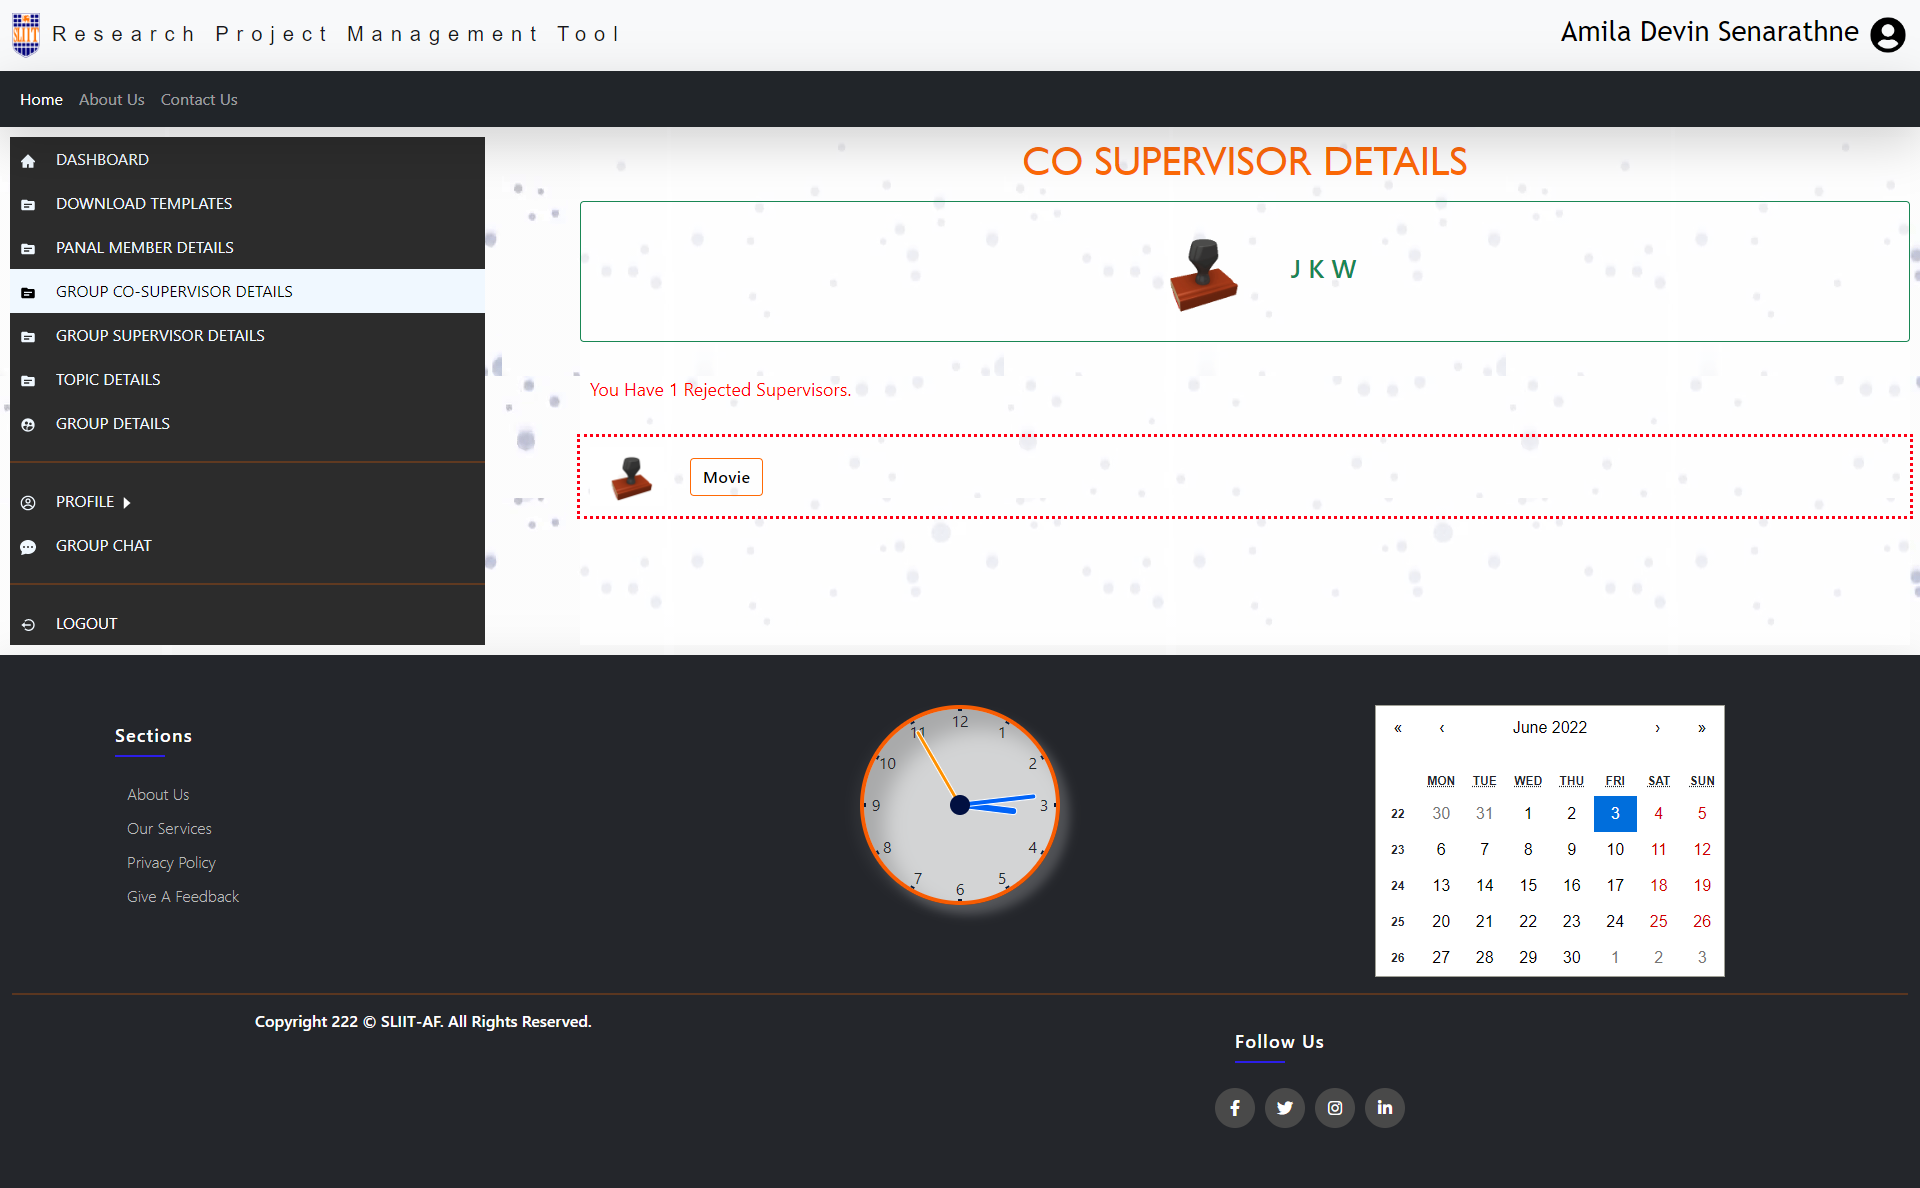
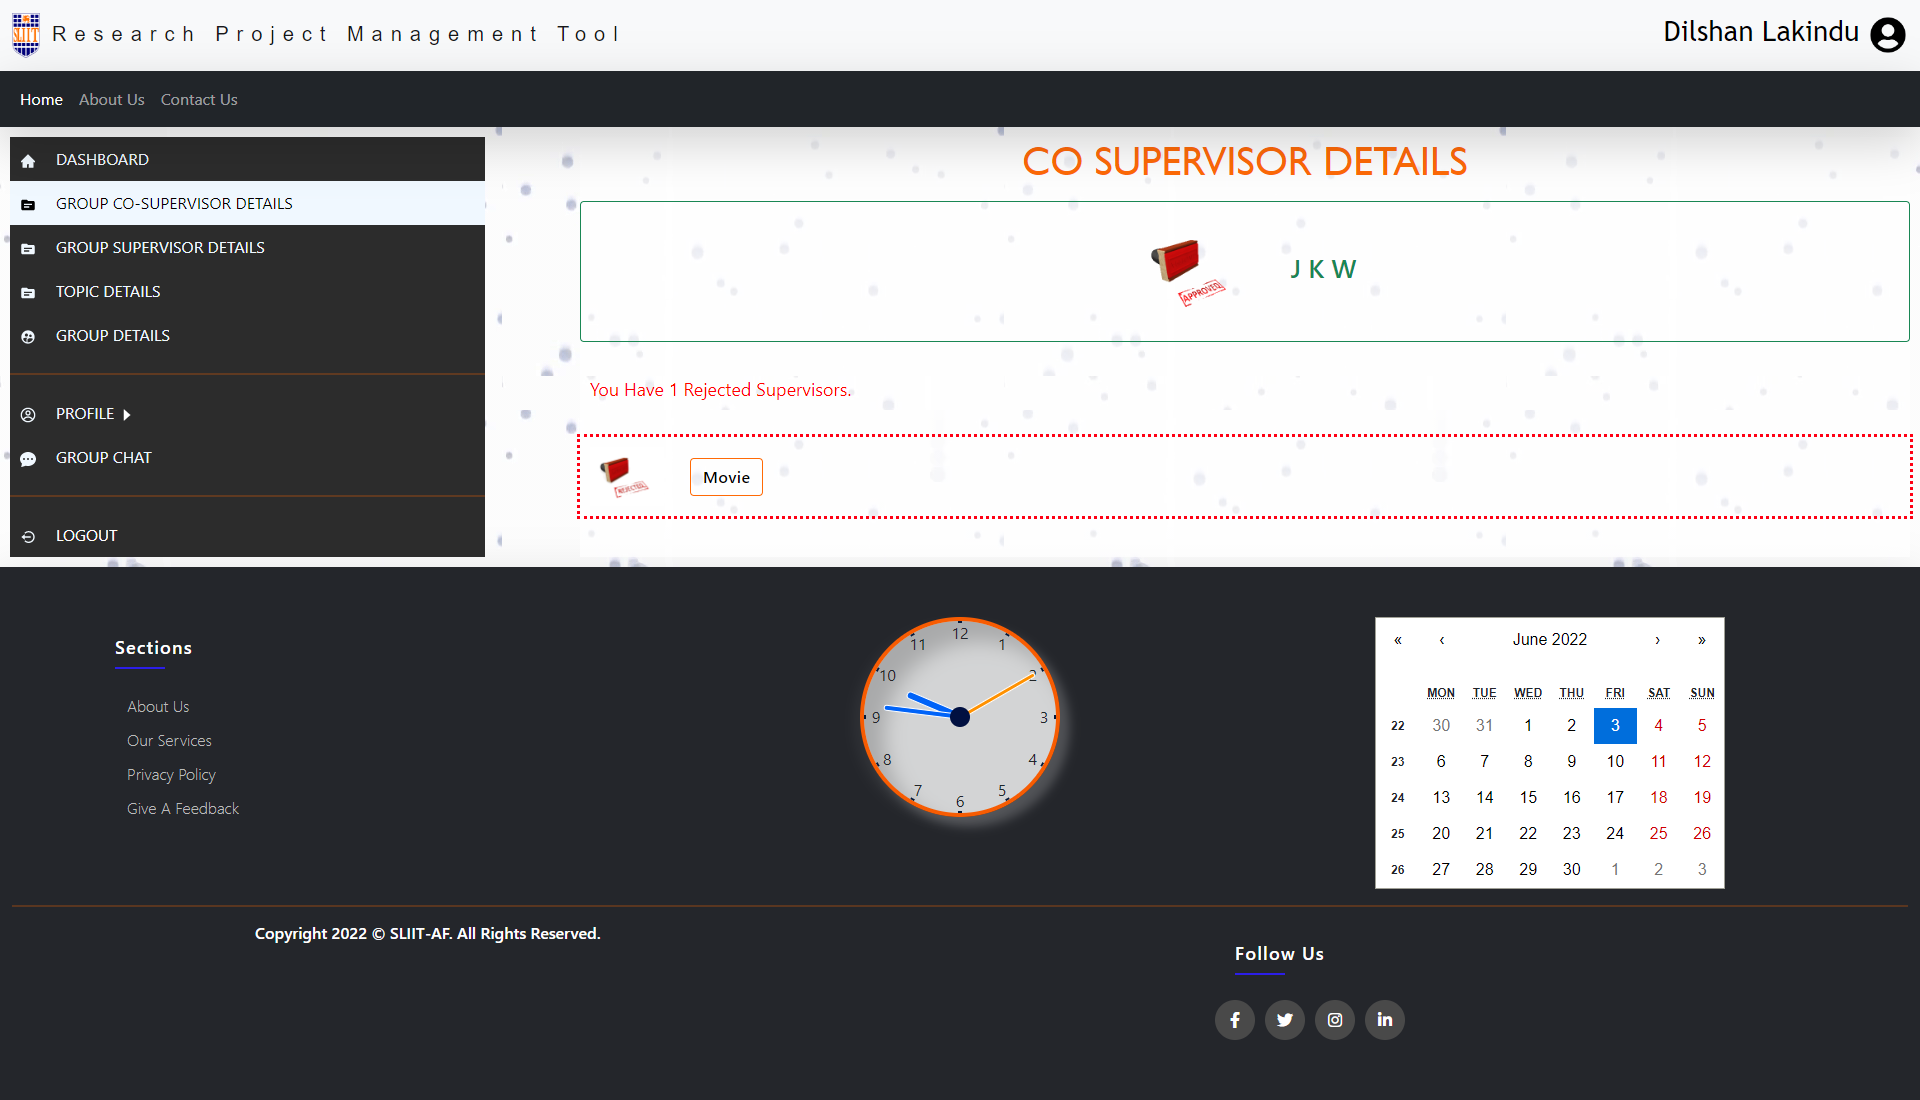
ss and fix some bugs

diff --git a/server/controllers/requestSupervisor.js b/server/controllers/requestSupervisor.js
@@ -91,7 +91,8 @@ const requestSupervisorController={
                                             if (oss.user_id === s._id) {
                                                 back = true;
                                                 break;
-                                            } else {
+                                            }
+                                            if (oss.user_id != s._id) {
                                                 relatedSupervisors.push(s);
                                                 back = true;
                                                 break;
@@ -123,7 +124,8 @@ const requestSupervisorController={
                                                         //console.log('hiiiiiiiii');
                                                         back = true;
                                                         break;
-                                                    } else {
+                                                    } 
+                                                    if (oss.user_id != s._id){
                                                         relatedSupervisors.push(s);
                                                         back = true;
                                                         break;

diff --git a/client/src/Layouts/StudentDashBoard/StudentDashboard.js b/client/src/Layouts/StudentDashBoard/StudentDashboard.js
@@ -251,12 +251,12 @@ const StudentDashboard = () => {
                         <div className={requestCoSupervisor ? 'navTextSelect' : 'navText'}>{myGroup?.level===4?"REQUEST CO-SUPERVISOR":"GROUP CO-SUPERVISOR DETAILS"}</div>
                     </div>:<></>
                      }
-                    {user.student?.haveAGroup&&
+                    {user.student?.haveAGroup&&myGroup?.level>=1||myGroup?.level===-1?
                     <div onClick={handleRequestSupervisor} className={requestSupervisor ? 'nav1Select' : 'nav1'}>
                         <div className={requestSupervisor ? "navIconSelect" : "navIcon"}><MdTopic /></div>
                         <div className={requestSupervisor ? 'navTextSelect' : 'navText'}>{myGroup?.level===1?"REQUEST SUPERVISOR":"GROUP SUPERVISOR DETAILS"}</div>
                     </div>
-                     }
+                     :<></>}
                     {user.student?.haveAGroup&&
                     <div onClick={handleTopicRegistration} className={topicRegistration ? 'nav1Select' : 'nav1'}>
                         <div className={topicRegistration ? "navIconSelect" : "navIcon"}><MdTopic /></div>

diff --git a/client/src/components/Student/DashBoard/DashBoard.jsx b/client/src/components/Student/DashBoard/DashBoard.jsx
@@ -9,6 +9,7 @@ const DashBoard = ({group}) => {
   
   return (
     <div><div className="Dash">Welcome To Student DashBoard</div>
+            {!group&&<><div  className='nextStep'>Next Step:  Make a group</div></>}
             {group?.level===0&&<><div  className='nextStep'>Next Step:  Register Your Topic under the Topic Registraion</div></>}
             {group?.level===1&&<><div className='nextStep'>Next Step: Request a Supervisor</div></>}
             {group?.level===2&&<><div className='warnStep'>Wait for the Supervisor Response.</div></>}

diff --git a/client/src/components/Student/RequestCoSupervisor/RequestCoSupervisor.jsx b/client/src/components/Student/RequestCoSupervisor/RequestCoSupervisor.jsx
@@ -94,8 +94,9 @@ const RequestCoSupervisor = ({topic,group}) => {
           <p className="card-text">{item.staff?.description}</p>
           <div className='row'>
           <div className='col'>
-            <button className='btn btn-outline-warning' onClick={handleOpen}>VIEW</button>
+            <button key={item._id} className='btn btn-outline-warning' onClick={handleOpen}>VIEW</button>
             <Modal
+            
               open={open}
               onClose={handleClose}
               aria-labelledby="modal-modal-title"

diff --git a/client/src/components/Footers/Footer.js b/client/src/components/Footers/Footer.js
@@ -36,7 +36,7 @@ export default function Footer() {
 					<hr />
 					<div className="row justify-content-around">
 						<div className="footer-col">
-							<h5 className="h5class">Copyright 222 © SLIIT-AF. All Rights Reserved.</h5>
+							<h5 className="h5class">Copyright 2022 © SLIIT-AF. All Rights Reserved.</h5>
 						</div>
 
 

diff --git a/client/src/components/Staff/PanalMember/TopicManagement/TopicManagement.jsx b/client/src/components/Staff/PanalMember/TopicManagement/TopicManagement.jsx
@@ -14,7 +14,7 @@ const TopicManagement = () => {
   const [callback,setCallBack]=useState(true);
 
   for(const t of topics){
-    if (t.panalMemberAcception===null) {
+    if (t?.panalMemberAcception===null) {
       tobeAcceptTopics.push(t)
     }
   }
